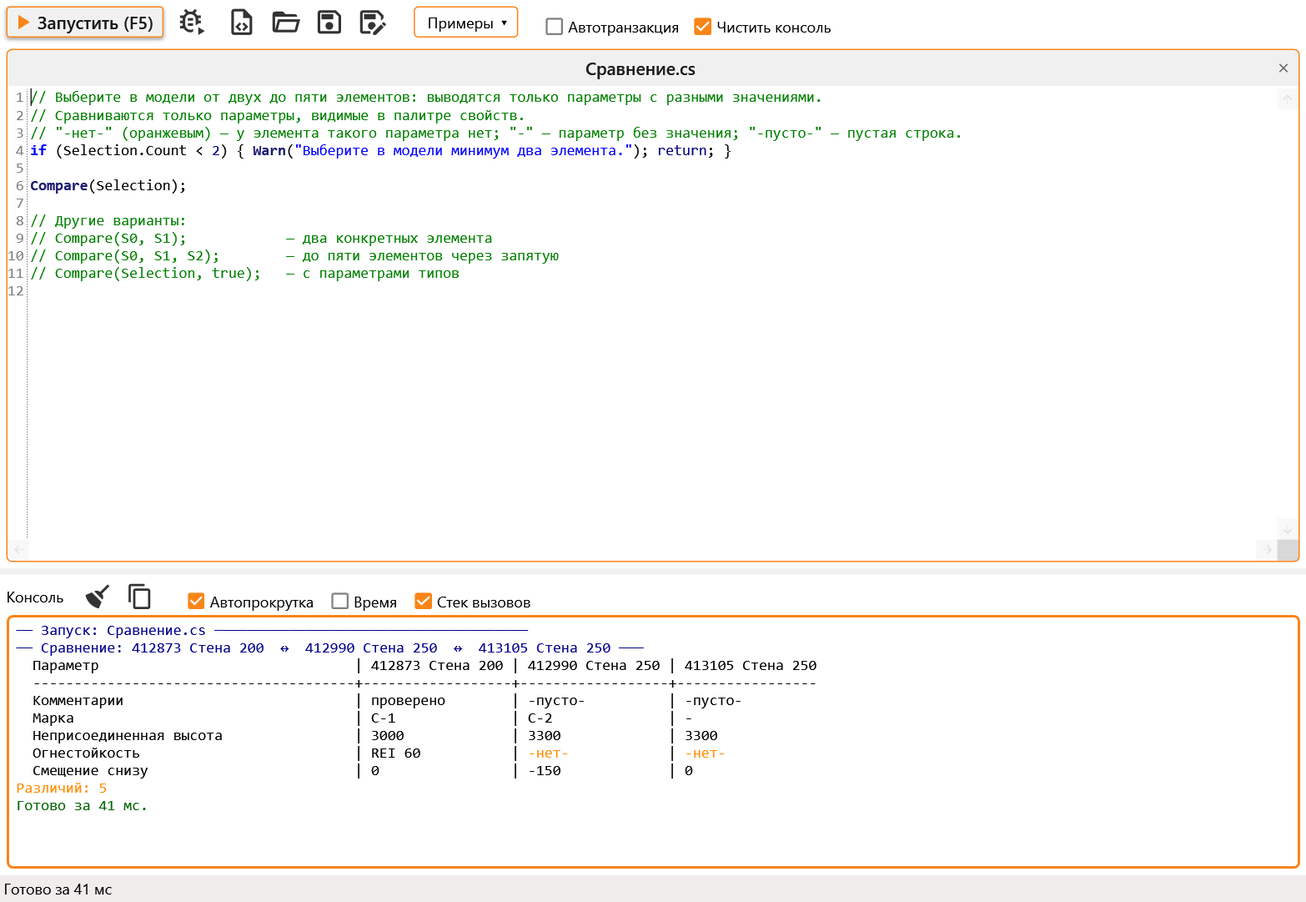
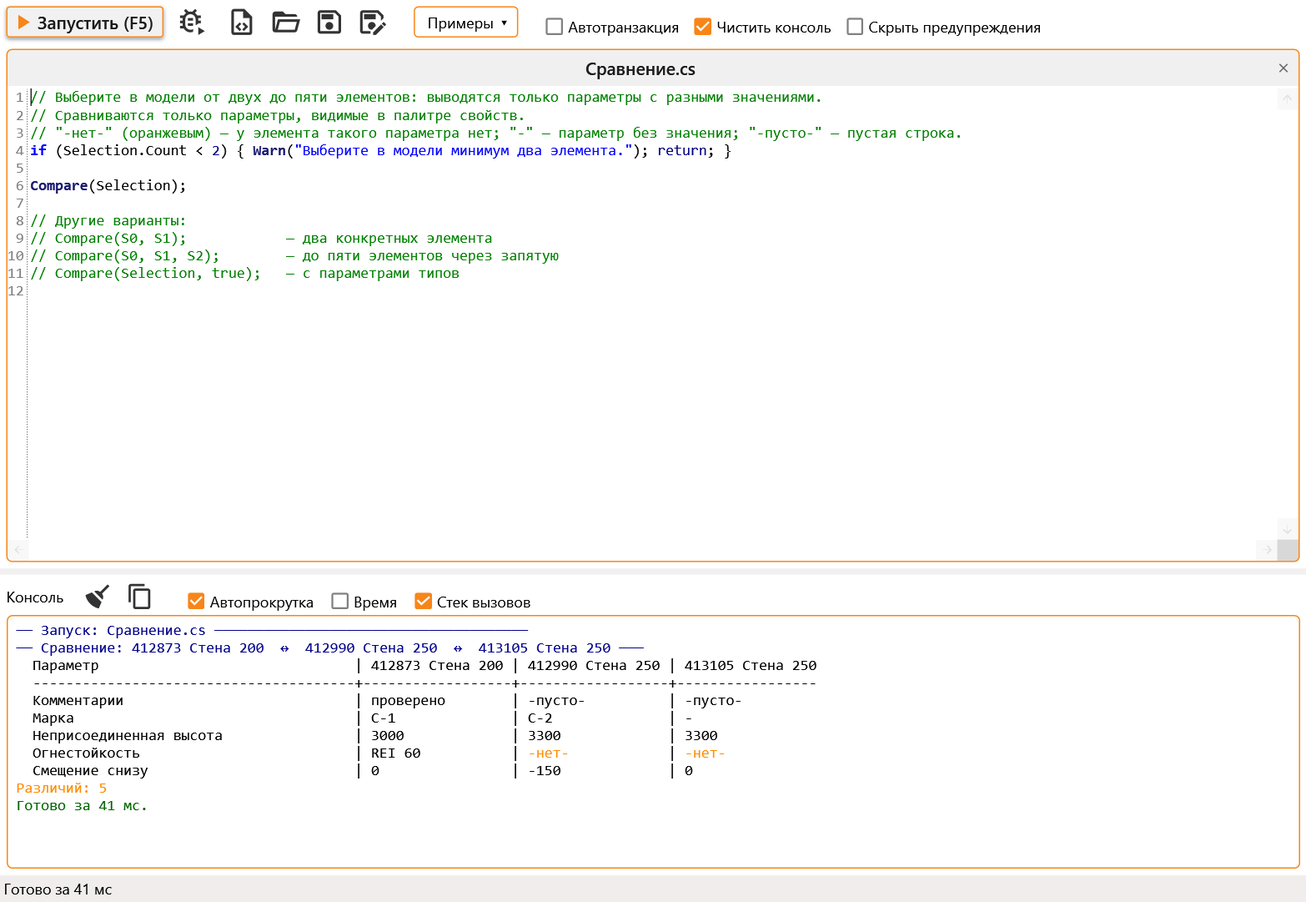
Revit warnings and errors of DevKit runs go to the console; Hide warnings checkbox

Changed region(s): [[0.705, 0.0305, 0.7969, 0.0611]]

diff --git a/source/UI/DllRunner/AssemblyRunnerWindow.xaml b/source/UI/DllRunner/AssemblyRunnerWindow.xaml
@@ -148,23 +148,16 @@
                 <materialDesign:PackIcon Kind="FolderOpenOutline" Width="25" Height="25" Foreground="{StaticResource IconBrush}"/>
             </Button>
 
-            <Button Width="25" Height="25" Margin="10 0 0 0" Padding="0" Command="{Binding ReloadAssemblyCommand}"
-                    Style="{StaticResource MaterialDesignFlatButton}" ToolTip="Обновить список команд DLL (Ctrl+R). Для любой DLL — правой кнопкой по ней">
-                <materialDesign:PackIcon Kind="Refresh" Width="25" Height="25" Foreground="{StaticResource IconBrush}"/>
-            </Button>
-
             <Button Width="25" Height="25" Margin="10 0 0 0" Padding="0" Command="{Binding RevealInExplorerCommand}"
                     Style="{StaticResource MaterialDesignFlatButton}" ToolTip="Показать в проводнике DLL">
                 <materialDesign:PackIcon Kind="FolderSearchOutline" Width="25" Height="25" Foreground="{StaticResource IconBrush}"/>
             </Button>
 
-            <Button Width="25" Height="25" Margin="10 0 0 0" Padding="0" Command="{Binding RemoveAssemblyCommand}"
-                    Style="{StaticResource MaterialDesignFlatButton}" ToolTip="Убрать из списка DLL">
-                <materialDesign:PackIcon Kind="DeleteOutline" Width="25" Height="25" Foreground="{StaticResource IconBrush}"/>
-            </Button>
-
             <CheckBox VerticalAlignment="Bottom" Padding="2 0" Content="Чистить консоль" Margin="20 0 0 0" IsChecked="{Binding IsClearOnRun}"
                       ToolTip="Очищать консоль перед каждым запуском"/>
+
+            <CheckBox VerticalAlignment="Bottom" Padding="2 0" Content="Скрыть предупреждения" Margin="10 0 0 0" IsChecked="{Binding IsHideWarnings}"
+                      ToolTip="Предупреждения Revit при запуске только пишутся в консоль, без окна Revit. Ошибки Revit показывает как обычно"/>
         </StackPanel>
 
         <StackPanel DockPanel.Dock="Top" Orientation="Horizontal" Margin="5" Style="{StaticResource AppsToolbar}">
@@ -328,7 +321,7 @@
                                                     Tag="{Binding DataContext, RelativeSource={RelativeSource AncestorType=TreeView}}">
                                             <StackPanel.ContextMenu>
                                                 <ContextMenu materialDesign:MenuAssist.MenuItemsPresenterMargin="0">
-                                                    <MenuItem Header="Обновить список команд" CommandParameter="{Binding}"
+                                                    <MenuItem Header="Обновить список команд" InputGestureText="Ctrl+R" CommandParameter="{Binding}"
                                                               Command="{Binding PlacementTarget.Tag.ReloadAssemblyCommand, RelativeSource={RelativeSource AncestorType=ContextMenu}}"/>
                                                     <MenuItem Header="Показать в проводнике" CommandParameter="{Binding}"
                                                               Command="{Binding PlacementTarget.Tag.RevealInExplorerCommand, RelativeSource={RelativeSource AncestorType=ContextMenu}}"/>

diff --git a/source/UI/ScriptEditor/ScriptEditorWindow.xaml b/source/UI/ScriptEditor/ScriptEditorWindow.xaml
@@ -85,6 +85,9 @@
 
             <CheckBox VerticalAlignment="Bottom" Padding="2 0" Content="Чистить консоль" Margin="8 0" IsChecked="{Binding IsClearOnRun}"
                       ToolTip="Очищать консоль перед каждым запуском"/>
+
+            <CheckBox VerticalAlignment="Bottom" Padding="2 0" Content="Скрыть предупреждения" IsChecked="{Binding IsHideWarnings}"
+                      ToolTip="Предупреждения Revit при запуске только пишутся в консоль, без окна Revit. Ошибки Revit показывает как обычно"/>
         </StackPanel>
 
         <StatusBar DockPanel.Dock="Bottom">

diff --git a/source/Core/FailureLog.cs b/source/Core/FailureLog.cs
@@ -1,0 +1,104 @@
+using Autodesk.Revit.DB;
+using Autodesk.Revit.DB.Events;
+using BIMPlugins.ExtStorage;
+using System;
+using System.Collections.Generic;
+using System.Linq;
+
+namespace RevitDevKit.Core
+{
+    // While a script or command runs from DevKit, the warnings and errors Revit raises on committing a transaction
+    // go to the console, with the elements they name. Revit still shows them as usual, unless "hide warnings" is
+    // on: warnings are then deleted once written, and no warning dialog appears. Errors are left to Revit.
+    public static class FailureLog
+    {
+        private const int ShownIds = 10;
+
+        public static IDisposable Watch(bool hideWarnings)
+        {
+            Autodesk.Revit.ApplicationServices.Application application;
+            try { application = RevitAPI.Application; }
+            catch { application = null; }
+
+            return application == null ? new Subscription(null, null) : Watch(application, hideWarnings);
+        }
+
+        public static IDisposable Watch(Autodesk.Revit.ApplicationServices.Application application, bool hideWarnings)
+        {
+            EventHandler<FailuresProcessingEventArgs> handler = (s, e) => OnFailures(e.GetFailuresAccessor(), hideWarnings);
+            application.FailuresProcessing += handler;
+            return new Subscription(application, handler);
+        }
+
+        private static void OnFailures(FailuresAccessor accessor, bool hideWarnings)
+        {
+            try
+            {
+                var transaction = accessor.GetTransactionName();
+                foreach (var message in accessor.GetFailureMessages())
+                {
+                    var severity = message.GetSeverity();
+                    if (severity == FailureSeverity.None) continue;
+
+                    var hidden = hideWarnings && severity == FailureSeverity.Warning;
+                    Write(severity, transaction, message.GetDescriptionText(), message.GetFailingElementIds(), hidden);
+
+                    if (hidden) accessor.DeleteWarning(message);
+                }
+            }
+            catch (Exception ex)
+            {
+                ConsoleOutput.Debug("Сбои Revit не прочитаны: " + ex.Message);
+            }
+        }
+
+        // Предупреждение · «Пометить стены»: Выделенные стены перекрываются. (2): 412873, 412990
+        internal static string Line(FailureSeverity severity, string transaction, string text, ICollection<ElementId> ids, bool hidden)
+        {
+            var kind = severity == FailureSeverity.Warning ? "Предупреждение" : "Ошибка";
+            var line = kind + (string.IsNullOrEmpty(transaction) ? "" : " · «" + transaction + "»") + ": " + (text ?? "").Trim();
+
+            if (ids != null && ids.Count > 0)
+            {
+                line += " (" + ids.Count + "): " + string.Join(", ", ids.Take(ShownIds).Select(Id));
+                if (ids.Count > ShownIds) line += " и ещё " + (ids.Count - ShownIds);
+            }
+
+            if (severity != FailureSeverity.Warning)
+                line += " — если её не решить, Revit отменит транзакцию";
+            else if (hidden)
+                line += " — скрыто";
+
+            return line;
+        }
+
+        private static void Write(FailureSeverity severity, string transaction, string text, ICollection<ElementId> ids, bool hidden) =>
+            ConsoleOutput.WriteLine(Line(severity, transaction, text, ids, hidden), severity == FailureSeverity.Warning ? LogLevel.Warning : LogLevel.Error);
+
+#if R2024_OR_GREATER
+        private static string Id(ElementId id) => id.Value.ToString();
+#else
+        private static string Id(ElementId id) => id.IntegerValue.ToString();
+#endif
+
+        private sealed class Subscription : IDisposable
+        {
+            private Autodesk.Revit.ApplicationServices.Application _application;
+            private readonly EventHandler<FailuresProcessingEventArgs> _handler;
+
+            public Subscription(Autodesk.Revit.ApplicationServices.Application application, EventHandler<FailuresProcessingEventArgs> handler)
+            {
+                _application = application;
+                _handler = handler;
+            }
+
+            public void Dispose()
+            {
+                if (_application == null) return;
+                try { _application.FailuresProcessing -= _handler; }
+                catch (Exception ex) { ConsoleOutput.Debug("Отписка от сбоев Revit: " + ex.Message); }
+                _application = null;
+            }
+        }
+    }
+}

diff --git a/source/Core/RevitTaskRunner.cs b/source/Core/RevitTaskRunner.cs
@@ -23,6 +23,9 @@ namespace RevitDevKit.Core
         // The DLL a command of Add-in Explorer comes from; null for a script. Repeat Last: Debug repeats only
         // commands, and attaches the Visual Studio whose solution holds this DLL.
         public string SourceDll { get; set; }
+
+        // Warnings Revit raises while it runs are written to the console and deleted, so no dialog shows.
+        public bool HideWarnings { get; set; }
     }
 
     public sealed class RevitTaskRunner : IExternalEventHandler
@@ -95,6 +98,8 @@ namespace RevitDevKit.Core
             ConsoleOutput.EnsureTraceListener();
             ConsoleOutput.Banner("Запуск: " + (request.Title ?? "скрипт"));
 
+            // Only transactions committed while this request runs: not the user's, nor other add-ins' between runs.
+            var failures = FailureLog.Watch(request.HideWarnings);
             Transaction transaction = null;
             try
             {
@@ -138,6 +143,7 @@ namespace RevitDevKit.Core
             }
             finally
             {
+                failures.Dispose();
                 CurrentCommandData = null;
 
                 if (transaction != null) transaction.Dispose();

diff --git a/source/UI/DllRunner/AssemblyRunnerVM.cs b/source/UI/DllRunner/AssemblyRunnerVM.cs
@@ -19,6 +19,7 @@ namespace RevitDevKit.UI.DllRunner
         private readonly Dispatcher _dispatcher = Dispatcher.CurrentDispatcher;
 
         [ObservableProperty] private bool _isClearOnRun = true;
+        [ObservableProperty] private bool _isHideWarnings;
 
         [ObservableProperty] private string _searchText = string.Empty;
         [ObservableProperty] private bool _isNothingFound;
@@ -285,6 +286,7 @@ namespace RevitDevKit.UI.DllRunner
                 Title = target.DisplayName,
                 TransactionName = "DevKit: " + target.Type.Name,
                 SourceDll = path,
+                HideWarnings = IsHideWarnings,
                 Body = () =>
                 {
                     // The window closes on run; showing the console pane needs an API context, i.e. here.

diff --git a/source/UI/ScriptEditor/ScriptEditorVM.cs b/source/UI/ScriptEditor/ScriptEditorVM.cs
@@ -23,6 +23,7 @@ namespace RevitDevKit.UI.ScriptEditor
 
         [ObservableProperty] private bool _isAutoTransaction = false;
         [ObservableProperty] private bool _isClearOnRun = true;
+        [ObservableProperty] private bool _isHideWarnings;
 
         [ObservableProperty] private ScriptTabVM _selectedTab;
 
@@ -315,6 +316,7 @@ namespace RevitDevKit.UI.ScriptEditor
             {
                 Title = title,
                 AutoTransaction = autoTransaction,
+                HideWarnings = IsHideWarnings,
                 TransactionName = "DevKit: " + title,
                 Body = () => target.Invoke(),
                 Completed = error => _dispatcher.Invoke(() =>

diff --git a/README.ru.md b/README.ru.md
@@ -31,6 +31,8 @@
 
 В меню «Примеры» лежит несколько готовых скриптов. Галочка «Автотранзакция» оборачивает запуск в транзакцию, если скрипт меняет модель и не открывает её сам. Если скрипт не компилируется, ошибки выводятся в консоль, а курсор встаёт на первую из них. Галочка «Чистить консоль» очищает консоль перед каждым запуском.
 
+Предупреждения и ошибки, которые Revit выдаёт при коммите транзакции скрипта, попадают в консоль оранжевым и красным, с названием транзакции и Id элементов. Revit по-прежнему показывает их как обычно; с галочкой «Скрыть предупреждения» предупреждения только пишутся в консоль и окно Revit не появляется, а ошибки Revit показывает всё равно. Так же это работает для команд из DLL и для Repeat Last.
+
 Скрипты сохраняются в `%AppData%\RevitDevKit\Scripts`, если не выбрать другую папку. По правой кнопке на вкладке её можно закрыть, сохранить под другим именем («Сохранить как…», это же кнопка на панели и Ctrl+Shift+S), а у вкладки, сохранённой в файл, показать файл в проводнике. Repeat Last на ленте повторяет скрипт в том виде, в каком его скомпилировали: правки применятся после F5 в редакторе.
 
 Кнопка с жуком рядом с «Запустить» запускает скрипт под отладчиком. Открытая Visual Studio сама подключается к Revit, как через «Отладка › Подключиться к процессу»; если открыто несколько, берётся та, в папке решения которой лежит скрипт или DLL. Выполнение остановится на первой строке скрипта, а у класса в начале `Execute`, `Main` или `Run`. Если Visual Studio не открыта, ничего не запускается, и DevKit попросит сначала её открыть. Другой отладчик, Rider или VS Code, подключается к Revit вручную (Attach to Process), и тогда кнопка запускает под ним. Дальше по скрипту можно идти F10 и F11 и ставить в нём точки останова. Отладчик показывает сам файл скрипта, если вкладка сохранена без правок, иначе копию текста в `%TEMP%\RevitDevKit\Debug`.
@@ -83,7 +85,7 @@ Tx("Пометить стены", () =>
 
 <img src="assets/dll-runner-commands.png" width="580" alt="Add-in Explorer, вкладка Commands" />
 
-Добавляете собранную DLL, и в списке появляются её `IExternalCommand`, сгруппированные по пространствам имён. Двойной щелчок или F5 запускает команду. Файл DLL при этом не блокируется, поэтому проект можно пересобирать, не закрывая Revit. Команда каждый раз берётся из текущей DLL на диске, так что после сборки её достаточно просто запустить снова. Кнопка «Обновить» нужна, только если появились новые команды. Как и в редакторе, галочка «Чистить консоль» очищает консоль перед каждым запуском. Кнопка с жуком выполняет команду под отладчиком: подключается Visual Studio с открытым решением надстройки, и точки останова в проекте срабатывают.
+Добавляете собранную DLL, и в списке появляются её `IExternalCommand`, сгруппированные по пространствам имён. Двойной щелчок или F5 запускает команду. Файл DLL при этом не блокируется, поэтому проект можно пересобирать, не закрывая Revit. Команда каждый раз берётся из текущей DLL на диске, так что после сборки её достаточно просто запустить снова. Обновлять список нужно, только если появились новые команды: Ctrl+R или правая кнопка на DLL, там же DLL убирается из списка. Как и в редакторе, галочка «Чистить консоль» очищает консоль перед каждым запуском, а «Скрыть предупреждения» убирает окна предупреждений Revit. Кнопка с жуком выполняет команду под отладчиком: подключается Visual Studio с открытым решением надстройки, и точки останова в проекте срабатывают.
 
 Окно при запуске закрывается. Чтобы после правок запустить ту же команду ещё раз, не нужно снова открывать Add-in Explorer: соберите проект и нажмите на ленте Repeat Last. Команда запустится из свежей DLL. Кнопке Repeat Last можно назначить горячую клавишу в Revit. Рядом с ней **Repeat Last: Debug** повторяет команду под открытой Visual Studio, как кнопка с жуком, и точки останова в проекте срабатывают; у неё своя горячая клавиша. Скрипты отлаживаются в Script Editor.
 

diff --git a/README.md b/README.md
@@ -33,6 +33,8 @@ An assembly that Revit does not load can be referenced with `#r`:
 
 The **Примеры** (Samples) menu has a few ready-made scripts. The **Автотранзакция** (auto transaction) checkbox wraps the run in a transaction, for scripts that change the model without opening one themselves. If a script does not compile, the errors go to the console and the caret moves to the first of them. **Чистить консоль** (clear console) clears the console before each run.
 
+Warnings and errors Revit raises when a transaction of the script is committed go to the console, in orange and red, with the transaction's name and the Ids of the elements. Revit still shows them as usual; with **Скрыть предупреждения** (hide warnings) ticked, warnings are only written to the console and no warning dialog appears, while errors are still shown by Revit. The same works for DLL commands and for Repeat Last.
+
 Scripts are saved to `%AppData%\RevitDevKit\Scripts` unless you pick another folder. A right click on a tab closes it, saves it under another name (**Сохранить как…**, also a toolbar button and Ctrl+Shift+S), and for a tab saved to a file shows the file in Explorer. Repeat Last on the ribbon repeats a script as it was compiled: edits take effect after F5 in the editor.
 
 The bug button next to **Запустить** (Run) runs the script under a debugger. An open Visual Studio is attached to Revit by itself, as Debug › Attach to Process does; with several open, the one whose solution folder holds the script or the DLL. The run stops on the first line of the script, or at the start of `Execute`, `Main` or `Run` of a class. With no Visual Studio open, nothing runs and DevKit asks to open it first. Another debugger, Rider or VS Code, is attached to Revit by hand (Attach to Process), and then the button runs under it. From there F10 and F11 step through the script and breakpoints can be set in it. The debugger shows the script's own file when the tab is saved as it is, otherwise a copy of the text in `%TEMP%\RevitDevKit\Debug`.
@@ -85,7 +87,7 @@ In the output of `Compare`, `-нет-` (none) means the element has no such para
 
 <img src="assets/dll-runner-commands.png" width="580" alt="Add-in Explorer, the Commands tab" />
 
-Add a built DLL, and its `IExternalCommand` classes appear in the list, grouped by namespace. A double click or F5 runs a command. The DLL file is not locked, so the project can be rebuilt without closing Revit. The command is taken from the DLL on disk every time, so after a build just run it again. The **Обновить** (Refresh) button is needed only when new commands appear. As in the editor, **Чистить консоль** (clear console) clears the console before each run. The bug button runs the command under a debugger: the Visual Studio with the add-in's solution open is attached, and breakpoints set in the project are hit.
+Add a built DLL, and its `IExternalCommand` classes appear in the list, grouped by namespace. A double click or F5 runs a command. The DLL file is not locked, so the project can be rebuilt without closing Revit. The command is taken from the DLL on disk every time, so after a build just run it again. The list needs refreshing only when new commands appear: Ctrl+R, or a right click on the DLL, which also removes it from the list. As in the editor, **Чистить консоль** (clear console) clears the console before each run, and **Скрыть предупреждения** (hide warnings) keeps Revit's warning dialogs away. The bug button runs the command under a debugger: the Visual Studio with the add-in's solution open is attached, and breakpoints set in the project are hit.
 
 The window closes when a command runs. To run the same command again after changes, there is no need to open Add-in Explorer: build the project and press Repeat Last on the ribbon, and the command runs from the fresh DLL. Repeat Last can be given a keyboard shortcut in Revit. **Repeat Last: Debug** next to it repeats the command under the open Visual Studio, as the bug button does, so breakpoints set in the project are hit; it has its own shortcut. A script is debugged in Script Editor instead.
 
